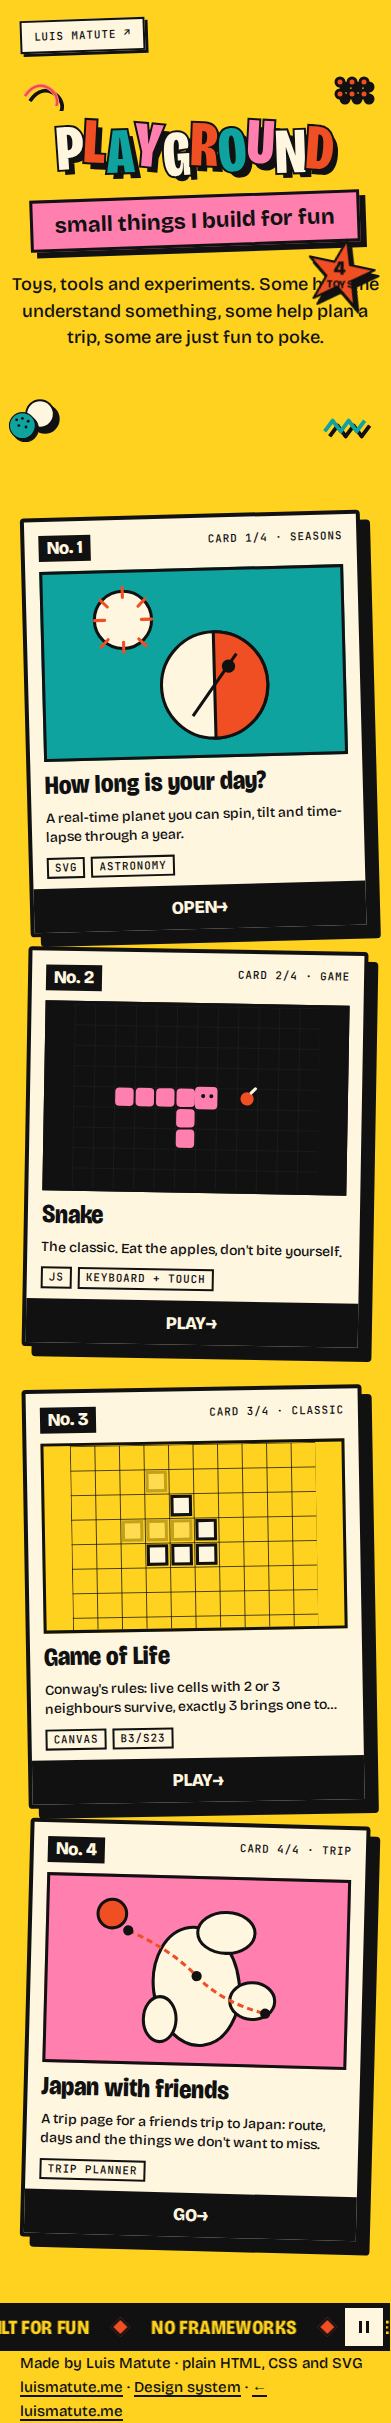
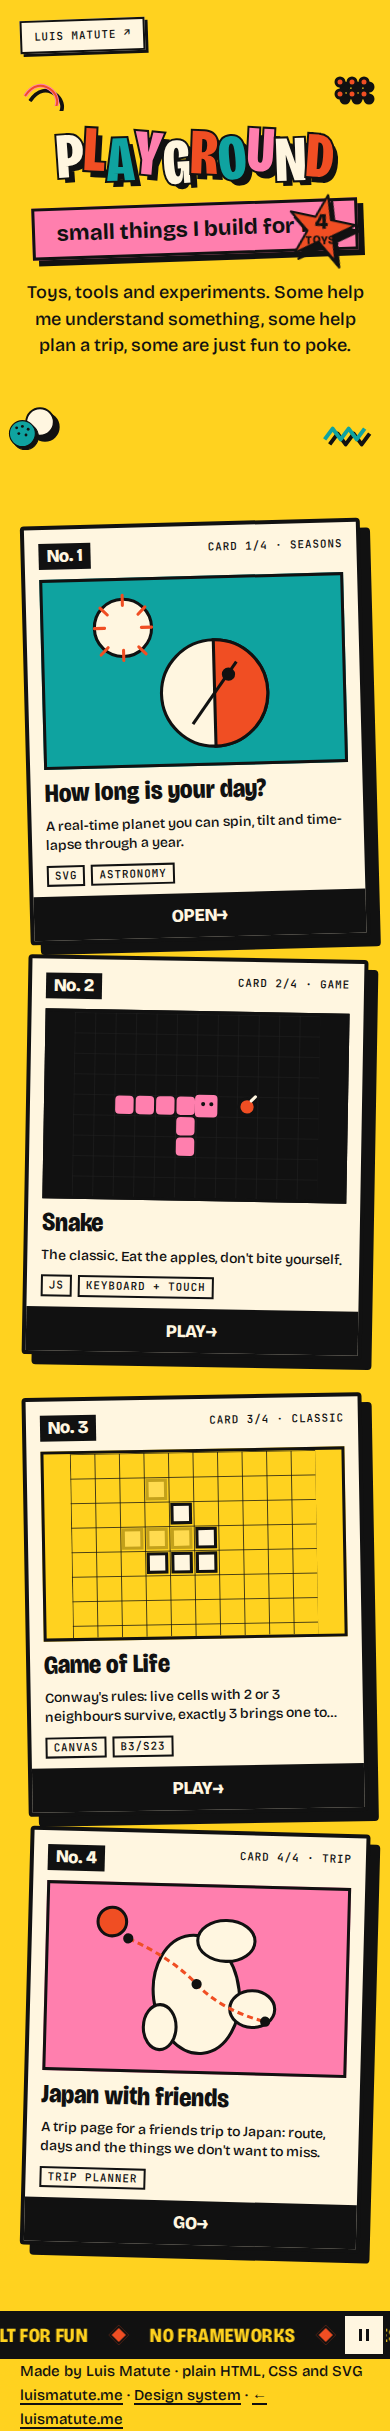
fix(playground): full-width h1 and ribbon-anchored mobile starburst

diff --git a/playground/index.html b/playground/index.html
@@ -33,27 +33,31 @@ a{color:inherit}
 .back-link:focus-visible{outline:4px solid var(--tomato);outline-offset:4px}
 @media(max-width:640px){.back-link{display:none}}
 .hero{position:relative;padding:48px 0 64px;text-align:center}
-@media(max-width:640px){.hero{padding-bottom:100px}}
-.title{font-family:var(--display);font-size:var(--h1);font-weight:800;font-stretch:100%;line-height:.86;letter-spacing:-.01em;text-transform:uppercase;margin:0;display:flex;flex-wrap:wrap;justify-content:center;gap:0 .02em}
+.title{font-family:var(--display);font-size:var(--h1);font-weight:800;font-stretch:100%;line-height:.86;letter-spacing:-.01em;text-transform:uppercase;margin:0 auto;display:flex;flex-wrap:nowrap;justify-content:center;gap:0 .02em;width:100%;position:relative;z-index:2}
+.title-break{flex-basis:100%;width:0;height:0;overflow:hidden;margin:0;padding:0;display:none}
 @media(max-width:640px){.title{font-stretch:75%}}
 .title span{display:inline-block;-webkit-text-stroke:var(--line-lg) var(--ink);paint-order:stroke fill;text-shadow:6px 6px 0 var(--ink)}
 .title .c0{color:var(--cream)}.title .c1{color:var(--tomato)}.title .c2{color:var(--teal)}.title .c3{color:var(--pink)}
-.title span:nth-child(1){transform:rotate(-4deg) translateY(0)}.title span:nth-child(2){transform:rotate(3deg) translateY(-6px)}.title span:nth-child(3){transform:rotate(-2deg) translateY(4px)}.title span:nth-child(4){transform:rotate(5deg) translateY(-3px)}.title span:nth-child(5){transform:rotate(-3deg) translateY(6px)}.title span:nth-child(6){transform:rotate(2deg) translateY(-4px)}.title span:nth-child(7){transform:rotate(-5deg) translateY(2px)}.title span:nth-child(8){transform:rotate(3deg) translateY(-6px)}.title span:nth-child(9){transform:rotate(-2deg) translateY(3px)}.title span:nth-child(10){transform:rotate(4deg) translateY(0)}
+.title span:nth-child(1){transform:rotate(-4deg) translateY(0)}.title span:nth-child(2){transform:rotate(3deg) translateY(-6px)}.title span:nth-child(3){transform:rotate(-2deg) translateY(4px)}.title span:nth-child(4){transform:rotate(5deg) translateY(-3px)}.title span:nth-child(6){transform:rotate(-3deg) translateY(6px)}.title span:nth-child(7){transform:rotate(2deg) translateY(-4px)}.title span:nth-child(8){transform:rotate(-5deg) translateY(2px)}.title span:nth-child(9){transform:rotate(3deg) translateY(-6px)}.title span:nth-child(10){transform:rotate(-2deg) translateY(3px)}.title span:nth-child(11){transform:rotate(4deg) translateY(0)}
 body:not(.ready) .title span{opacity:0;transform:translateY(-40px) rotate(0)}
 body.ready .title span{opacity:1;transition:transform var(--t-hero) var(--ease-pop),opacity var(--t-hero) var(--ease-out)}
-body.ready .title span:nth-child(1){transition-delay:0ms}body.ready .title span:nth-child(2){transition-delay:40ms}body.ready .title span:nth-child(3){transition-delay:80ms}body.ready .title span:nth-child(4){transition-delay:120ms}body.ready .title span:nth-child(5){transition-delay:160ms}body.ready .title span:nth-child(6){transition-delay:200ms}body.ready .title span:nth-child(7){transition-delay:240ms}body.ready .title span:nth-child(8){transition-delay:280ms}body.ready .title span:nth-child(9){transition-delay:320ms}body.ready .title span:nth-child(10){transition-delay:360ms}
-body.ready .title span:nth-child(1){transform:rotate(-4deg) translateY(0)}body.ready .title span:nth-child(2){transform:rotate(3deg) translateY(-6px)}body.ready .title span:nth-child(3){transform:rotate(-2deg) translateY(4px)}body.ready .title span:nth-child(4){transform:rotate(5deg) translateY(-3px)}body.ready .title span:nth-child(5){transform:rotate(-3deg) translateY(6px)}body.ready .title span:nth-child(6){transform:rotate(2deg) translateY(-4px)}body.ready .title span:nth-child(7){transform:rotate(-5deg) translateY(2px)}body.ready .title span:nth-child(8){transform:rotate(3deg) translateY(-6px)}body.ready .title span:nth-child(9){transform:rotate(-2deg) translateY(3px)}body.ready .title span:nth-child(10){transform:rotate(4deg) translateY(0)}
-.ribbon{display:inline-block;margin:20px auto 0;background:var(--pink);border:var(--line) solid var(--ink);box-shadow:var(--shadow);transform:rotate(-2deg);padding:10px 22px;font:700 22px/1.2 var(--text)}
-.lede{max-width:46ch;margin:24px auto 0;font-size:18px;position:relative;z-index:2}
-.hero-copy{position:relative;z-index:2;max-width:720px;margin:0 auto;padding-inline:8px}
+body.ready .title span:nth-child(1){transition-delay:0ms}body.ready .title span:nth-child(2){transition-delay:40ms}body.ready .title span:nth-child(3){transition-delay:80ms}body.ready .title span:nth-child(4){transition-delay:120ms}body.ready .title span:nth-child(6){transition-delay:160ms}body.ready .title span:nth-child(7){transition-delay:200ms}body.ready .title span:nth-child(8){transition-delay:240ms}body.ready .title span:nth-child(9){transition-delay:280ms}body.ready .title span:nth-child(10){transition-delay:320ms}body.ready .title span:nth-child(11){transition-delay:360ms}
+body.ready .title span:nth-child(1){transform:rotate(-4deg) translateY(0)}body.ready .title span:nth-child(2){transform:rotate(3deg) translateY(-6px)}body.ready .title span:nth-child(3){transform:rotate(-2deg) translateY(4px)}body.ready .title span:nth-child(4){transform:rotate(5deg) translateY(-3px)}body.ready .title span:nth-child(6){transform:rotate(-3deg) translateY(6px)}body.ready .title span:nth-child(7){transform:rotate(2deg) translateY(-4px)}body.ready .title span:nth-child(8){transform:rotate(-5deg) translateY(2px)}body.ready .title span:nth-child(9){transform:rotate(3deg) translateY(-6px)}body.ready .title span:nth-child(10){transform:rotate(-2deg) translateY(3px)}body.ready .title span:nth-child(11){transform:rotate(4deg) translateY(0)}
+.ribbon{display:inline-block;background:var(--pink);border:var(--line) solid var(--ink);box-shadow:var(--shadow);transform:rotate(-2deg);padding:10px 22px;font:700 22px/1.2 var(--text)}
+.hero-narrow{position:relative;z-index:2;max-width:720px;margin:0 auto;padding-inline:8px}
+.lede{max-width:46ch;margin:24px auto 0;font-size:18px}
+@media(max-width:640px){.hero{padding-top:56px;padding-bottom:100px}.lede{padding-inline:12px;max-width:38ch}}
+.ribbon-row{position:relative;display:inline-block;max-width:100%;margin-top:20px}
+.ribbon{margin:0}
 .badge-star{position:absolute;width:100px;height:100px;transform:rotate(12deg);filter:drop-shadow(5px 5px 0 #111);z-index:4;pointer-events:none}
 .badge-star svg{display:block;width:100%;height:100%}
 .badge-star-label{position:absolute;inset:0;display:flex;flex-direction:column;align-items:center;justify-content:center;font-family:var(--display);font-weight:800;color:var(--ink);line-height:1.05;text-align:center;transform:rotate(-12deg)}
 .badge-star-label span:first-child{font-size:26px}
 .badge-star-label span:last-child{font-size:15px;letter-spacing:.04em}
-@media(min-width:760px){.badge-star{left:calc(50% + 368px);right:auto;top:24px}}
-@media(max-width:759px){.badge-star{right:max(8px,var(--gutter));left:auto;top:16px}}
-@media(max-width:640px){.badge-star{width:72px;height:72px;right:14px;left:auto;top:118px}.badge-star-label span:first-child{font-size:20px}.badge-star-label span:last-child{font-size:11px}}
+.badge-star-label{-webkit-text-stroke:0}
+@media(min-width:760px){.badge-star{left:calc(50% + 368px);right:auto;top:24px;width:100px;height:100px}}
+@media(min-width:641px) and (max-width:759px){.badge-star{right:max(8px,var(--gutter));left:auto;top:20px;width:88px;height:88px}}
+@media(max-width:640px){.badge-star{width:72px;height:72px}.badge-star-label span:first-child{font-size:22px}.badge-star-label span:last-child{font-size:12px;letter-spacing:.06em}.ribbon{padding-right:18px}}
 .stickers{pointer-events:none;position:absolute;inset:0;z-index:1;overflow:visible}
 .stk{position:absolute;filter:drop-shadow(5px 5px 0 #111)}
 .stk-sq{left:max(4px,var(--gutter));top:2px;width:64px}
@@ -153,10 +157,10 @@ body:not(.ready) .title span,body:not(.ready) .toy-card{opacity:1}
 <svg class="stk stk-polka" viewBox="0 0 80 80" aria-hidden="true"><circle cx="40" cy="40" r="36" fill="var(--teal)" stroke="var(--ink)" stroke-width="3"/><g fill="var(--ink)"><circle cx="24" cy="24" r="4"/><circle cx="40" cy="20" r="4"/><circle cx="56" cy="28" r="4"/><circle cx="30" cy="40" r="4"/><circle cx="50" cy="44" r="4"/></g></svg>
 <svg class="stk stk-moon" viewBox="0 0 56 56" aria-hidden="true"><path d="M36 8a24 24 0 1 0 16 40A20 20 0 0 1 36 8z" fill="var(--cream)" stroke="var(--ink)" stroke-width="3"/></svg>
 </div>
-<div class="hero-copy">
+<h1 class="title" aria-label="Playground"><span class="c0" aria-hidden="true">P</span><span class="c1" aria-hidden="true">L</span><span class="c2" aria-hidden="true">A</span><span class="c3" aria-hidden="true">Y</span><span class="title-break" aria-hidden="true"></span><span class="c0" aria-hidden="true">G</span><span class="c1" aria-hidden="true">R</span><span class="c2" aria-hidden="true">O</span><span class="c3" aria-hidden="true">U</span><span class="c0" aria-hidden="true">N</span><span class="c1" aria-hidden="true">D</span></h1>
 <div class="badge-star" aria-hidden="true"><svg viewBox="0 0 100 100" aria-hidden="true"><polygon points="50,2 61,35 96,35 68,56 79,90 50,68 21,90 32,56 4,35 39,35" fill="#f04e23" stroke="#111" stroke-width="3" stroke-linejoin="round"/></svg><div class="badge-star-label"><span>4</span><span>TOYS</span></div></div>
-<h1 class="title" aria-label="Playground"><span class="c0" aria-hidden="true">P</span><span class="c1" aria-hidden="true">L</span><span class="c2" aria-hidden="true">A</span><span class="c3" aria-hidden="true">Y</span><span class="c0" aria-hidden="true">G</span><span class="c1" aria-hidden="true">R</span><span class="c2" aria-hidden="true">O</span><span class="c3" aria-hidden="true">U</span><span class="c0" aria-hidden="true">N</span><span class="c1" aria-hidden="true">D</span></h1>
-<p class="ribbon">small things I build for fun</p>
+<div class="hero-narrow">
+<div class="ribbon-row"><p class="ribbon">small things I build for fun</p></div>
 <p class="lede">Toys, tools and experiments. Some help me understand something, some help plan a trip, some are just fun to poke.</p>
 </div>
 </header>
@@ -218,6 +222,10 @@ var mq=document.getElementById('marquee'),btn=document.getElementById('marqueeBt
 btn.addEventListener('click',function(){var p=mq.classList.toggle('is-paused');btn.setAttribute('aria-pressed',p?'true':'false');btn.setAttribute('aria-label',p?'Play marquee':'Pause marquee');btn.innerHTML=p?'<svg width="14" height="14" viewBox="0 0 14 14" aria-hidden="true"><polygon points="3,1 12,7 3,13" fill="var(--ink)"/></svg>':'<svg width="14" height="14" viewBox="0 0 14 14" aria-hidden="true"><rect x="2" y="1" width="3" height="12" fill="var(--ink)"/><rect x="9" y="1" width="3" height="12" fill="var(--ink)"/></svg>'});
 var track=document.querySelector('.marquee-track');
 if(track&&!window.matchMedia('(prefers-reduced-motion: reduce)').matches){var half=track.scrollWidth/2;track.style.animationDuration=(half/40)+'s'}
+var badge=document.querySelector('.badge-star'),ribbon=document.querySelector('.ribbon'),hero=document.querySelector('.hero');
+function syncBadge(){if(!badge||!ribbon||!hero)return;if(window.matchMedia('(max-width:640px)').matches){var h=hero.getBoundingClientRect(),r=ribbon.getBoundingClientRect();badge.style.top=(r.top-h.top+r.height/2-36)+'px';badge.style.right=Math.max(6,h.right-r.right+2)+'px';badge.style.left='auto'}else{badge.style.removeProperty('top');badge.style.removeProperty('right');badge.style.removeProperty('left')}}
+function titleWrap(){var t=document.querySelector('.title'),br=document.querySelector('.title-break');if(!t||!br)return;if(window.matchMedia('(min-width:900px)').matches){br.style.display='none';t.style.flexWrap='nowrap';return}br.style.display='none';t.style.flexWrap='nowrap';if(t.scrollWidth>t.clientWidth+2){br.style.display='block';t.style.flexWrap='wrap'}}
+syncBadge();titleWrap();window.addEventListener('resize',function(){syncBadge();titleWrap()});if(document.fonts&&document.fonts.ready)document.fonts.ready.then(function(){syncBadge();titleWrap()});
 })();
 </script>
 </body>
